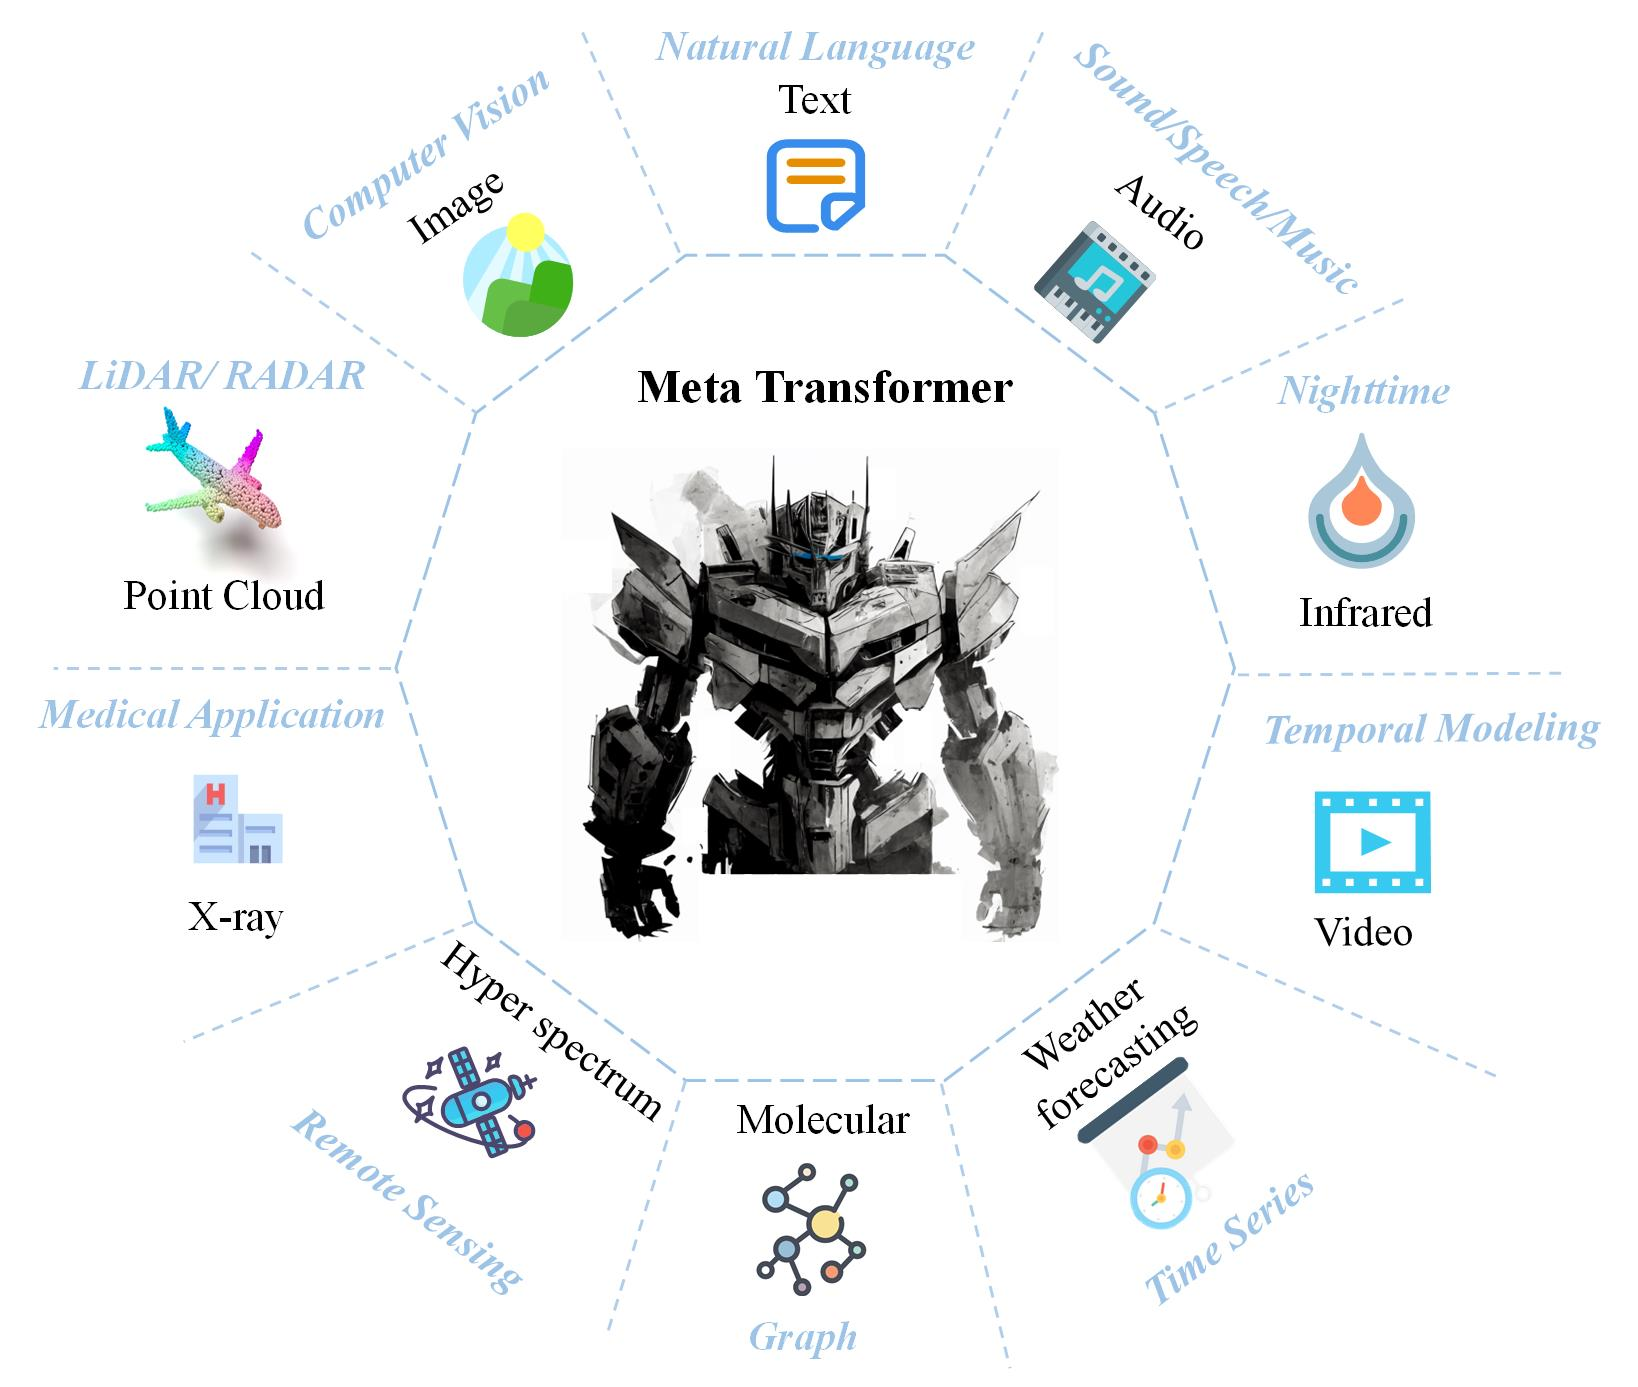
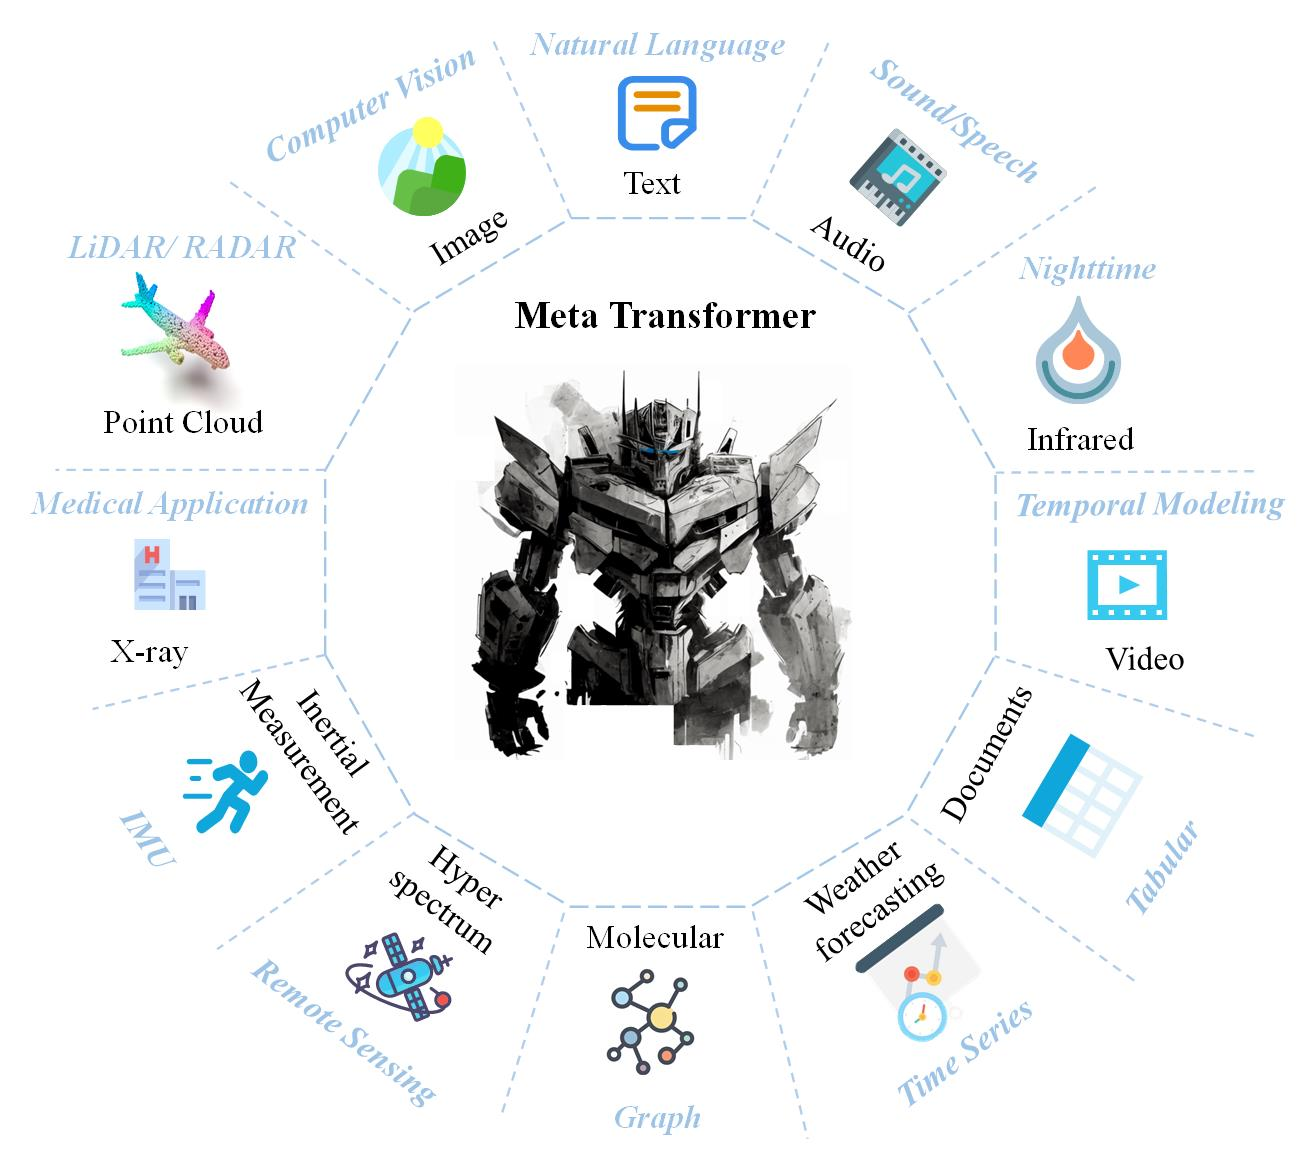
modality_name

diff --git a/index.html b/index.html
@@ -143,9 +143,7 @@
 <section class="hero teaser square_teaser">
   <div class="container is-max-desktop">
     <div class="hero-body">
-      <div class="hvr-grow">
       <img src="static/images/teaser.jpeg" alt="Teaser"/>
-      </div>
       <h2 class="subtitle has-text-centered">
         Unified Multimodal Learning. Meta-Transformer utilizes the same backbone to encode natural languages, images, point clouds, audio, video, infrared, hyperspectral, X-ray, time-series, tabular, and graph data. It reveals the potential of transformer architectures for universal perception. 
       </h2>
@@ -155,12 +153,68 @@
 <!-- End teaser video -->
 
 <section class="section">
+<h2 class="title is-4 has-text-centered">
+Modalities
+</h2>
+<div class=" multi_column">
+  <div class="has-text-centered">
+    <a href="https://en.wikipedia.org/wiki/ImageNet" target="_blank">
+      <p> Image</p>
+    </a>
+  </div>
+  <div class="has-text-centered">
+    <a href="https://en.wikipedia.org/wiki/Point_cloud", target="_blank">
+      <p> Point Cloud</p>
+    </a>  
+  </div>
+  <div class="has-text-centered">
+    <a href="https://en.wikipedia.org/wiki/Medical_image_computing", target="_blank">
+      <p> Medical Image</p>
+    </a>
+  </div>
+  <div class="has-text-centered">
+    <a href="https://en.wikipedia.org/wiki/Hyperspectral_imaging", target="_blank">
+      <p> Hyperspectral</p>
+    </a>
+  </div>
+  <div class="has-text-centered">
+    <a href="https://en.wikipedia.org/wiki/Graph_(abstract_data_type)", target="_blank">
+    <p> Graph Data</p>
+    </a>
+  </div>
+  <div class="has-text-centered">
+    <a href="https://en.wikipedia.org/wiki/Audio_mining#Audio_Classification", target="_blank">
+    <p> Audio</p>
+    </a>
+  </div>
+  <div class="has-text-centered">
+    <a href="https://en.wikipedia.org/wiki/Video_content_analysis", target="_blank">
+    <p> Video</p>
+    </a>
+  </div>
+  <div class="has-text-centered">
+    <a href="https://en.wikipedia.org/wiki/Thermographic_camera", target="_blank">
+    <p> Infrared Image</p>
+    </a>
+  </div>
+  <div class="has-text-centered">
+    <a href="https://en.wikipedia.org/wiki/Natural_language_processing", target="_blank">
+    <p> Language</p>
+    </a>
+  </div>
+  <div class="has-text-centered">
+    <a href="https://en.wikipedia.org/wiki/Time_series", target="_blank">
+    <p> Time-series</p>
+  </a>
+  </div>
+
+</div>
 <div class=" multi_column">
     <div>
       <div class="hvr-grow modality">
         <a href="https://en.wikipedia.org/wiki/ImageNet" target="_blank">
         <img src="static/images/image.svg" alt="point cloud"/>
-        </a>
+      </a>
       </div>
     </div>
     <div >
@@ -186,7 +240,7 @@
     </div >
     <div >
       <div class="hvr-grow modality">
-        <a href="", target="_blank">
+        <a href="https://en.wikipedia.org/wiki/Graph_(abstract_data_type)", target="_blank">
           <img src="static/images/graph.svg" alt="point cloud"/>
         </a>
       </div>
@@ -220,7 +274,7 @@
       </div>
     </div>
     <div >
-      <div class="hvr-grow modality">
+      <div class="modality">
         <a href="https://en.wikipedia.org/wiki/Time_series", target="_blank">
           <img src="static/images/time-series.svg" alt="point cloud"/>
         </a>
@@ -259,6 +313,13 @@
           <img src="static/images/framework.png" alt="MY ALT TEXT"/>
           <p>
             Illustration of Unified Multimodal Learning framework for natural language, images, point clouds, and audio spectrograms. An all-to-one tokenizer is used to convert the raw input data from different modalities to a shared token space. Then, a modality-shared encoder with frozen parameters is used to extract high-level semantic features of the input data. Finally, task-specific heads are used for downstream tasks. This framework enables perceiving different modalities with one shared encoder and without paired data.
+          </p>
+        </div>
+        <h2 class="title is-3">Tokenizer</h2>
+        <div class="content has-text-justified">
+          <img src="static/images/tokenizer.png" alt="MY ALT TEXT"/>
+          <p>
+            We propose the meta scheme in (a) containing grouping, convolution, and transformation progress. Then (b)-(e) represents the building blocks applied with our meta scheme on texts, images, point clouds, and audio spectrograms.
           </p>
         </div>
       </div>

diff --git a/static/css/index.css b/static/css/index.css
@@ -35,14 +35,14 @@ body {
 }
 .multi_column {
   column-count: 10;
-  padding: 100px;
+  /* padding: 100px; */
   column-gap: 20px;
   column-rule: 1.4px dotted rgb(133, 204, 232);
 }
 
 .modality {
   width: 100%;
-  height: 140px;
+  height: 120px;
   display: flex;
   align-items: center;
   justify-content: center;
